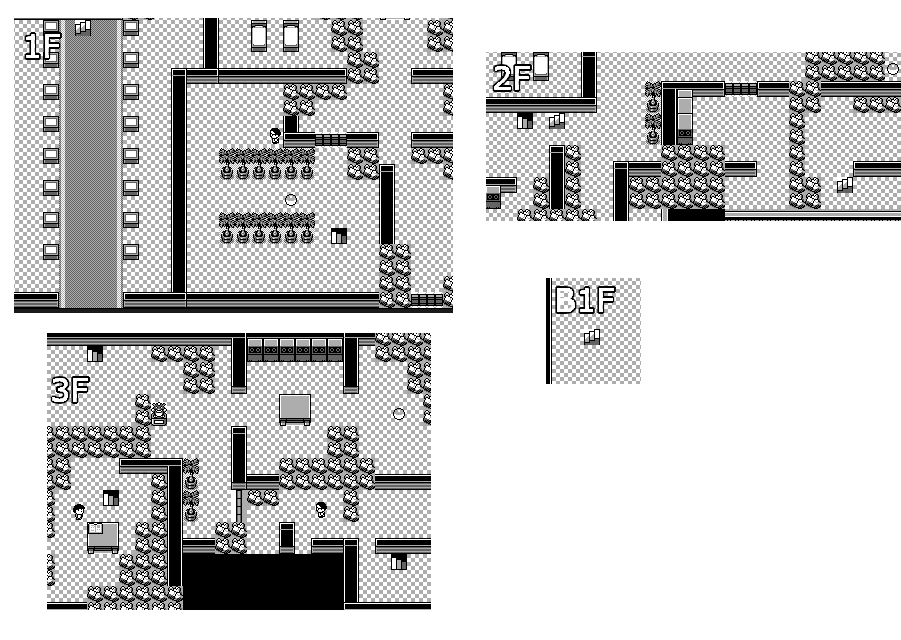
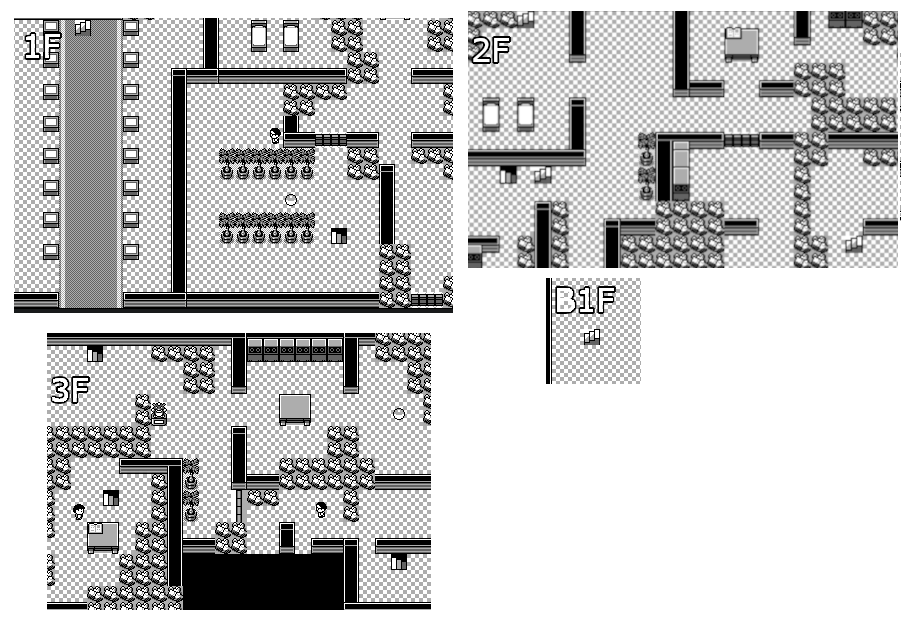
added warp

Changed region(s): [[0.4972, 0.0, 1.0, 0.4375]]

diff --git a/games/rb.js b/games/rb.js
@@ -144,13 +144,14 @@ let rb = {
 			stair1:                                                     {x: 107, y: 42, name: "Cinnabar Mansion 1F" },
             stair2:                                                     {x: 338, y: 206, name: "Cinnabar Mansion 1F" },
             door:                                                       {x: 428, y: 278, name: "Cinnabar Mansion 1F" },
-            stair3:                                                     {x: 523, y: 146, name: "Cinnabar Mansion 2F" },
-			stair4:                                                     {x: 556, y: 96, name: "Cinnabar Mansion 2F" },
-            stair5:                                                     {x: 844, y: 159, name: "Cinnabar Mansion 2F" },
+            stair3:                                                     {x: 508, y: 199, name: "Cinnabar Mansion 2F" },
+            stair4:                                                     {x: 545, y: 148, name: "Cinnabar Mansion 2F" },
+            stair5:                                                     {x: 853, y: 212, name: "Cinnabar Mansion 2F" },
             stair6:                                                     {x: 123, y: 367, name: "Cinnabar Mansion 3F" },
             stair7:                                                     {x: 112, y: 469, name: "Cinnabar Mansion 3F" },
             stair8:                                                     {x: 400, y: 533, name: "Cinnabar Mansion 3F" },
             stair9:                                                     {x: 590, y: 361, name: "Cinnabar Mansion B1F" },
+            stair10:                                                    {x: 560, y: 17, name: "Cinnabar Mansion 2F" },
         },
         cycling_road: {
             fly:                                                        {x: 48, y: 47, name: "Cycling Road (Top)" },
